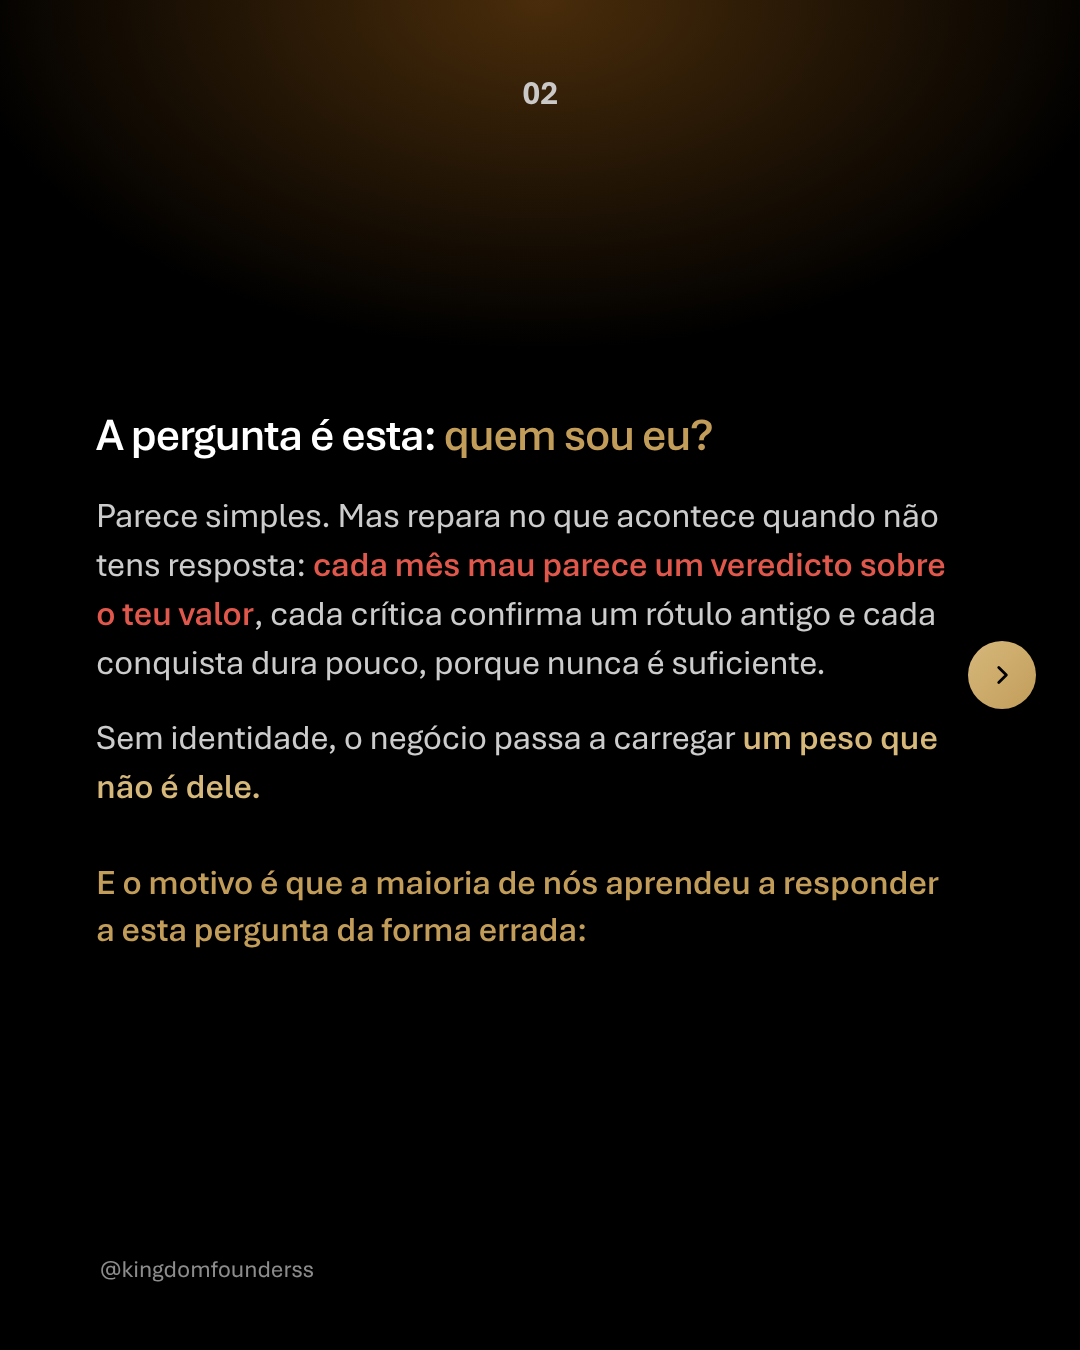
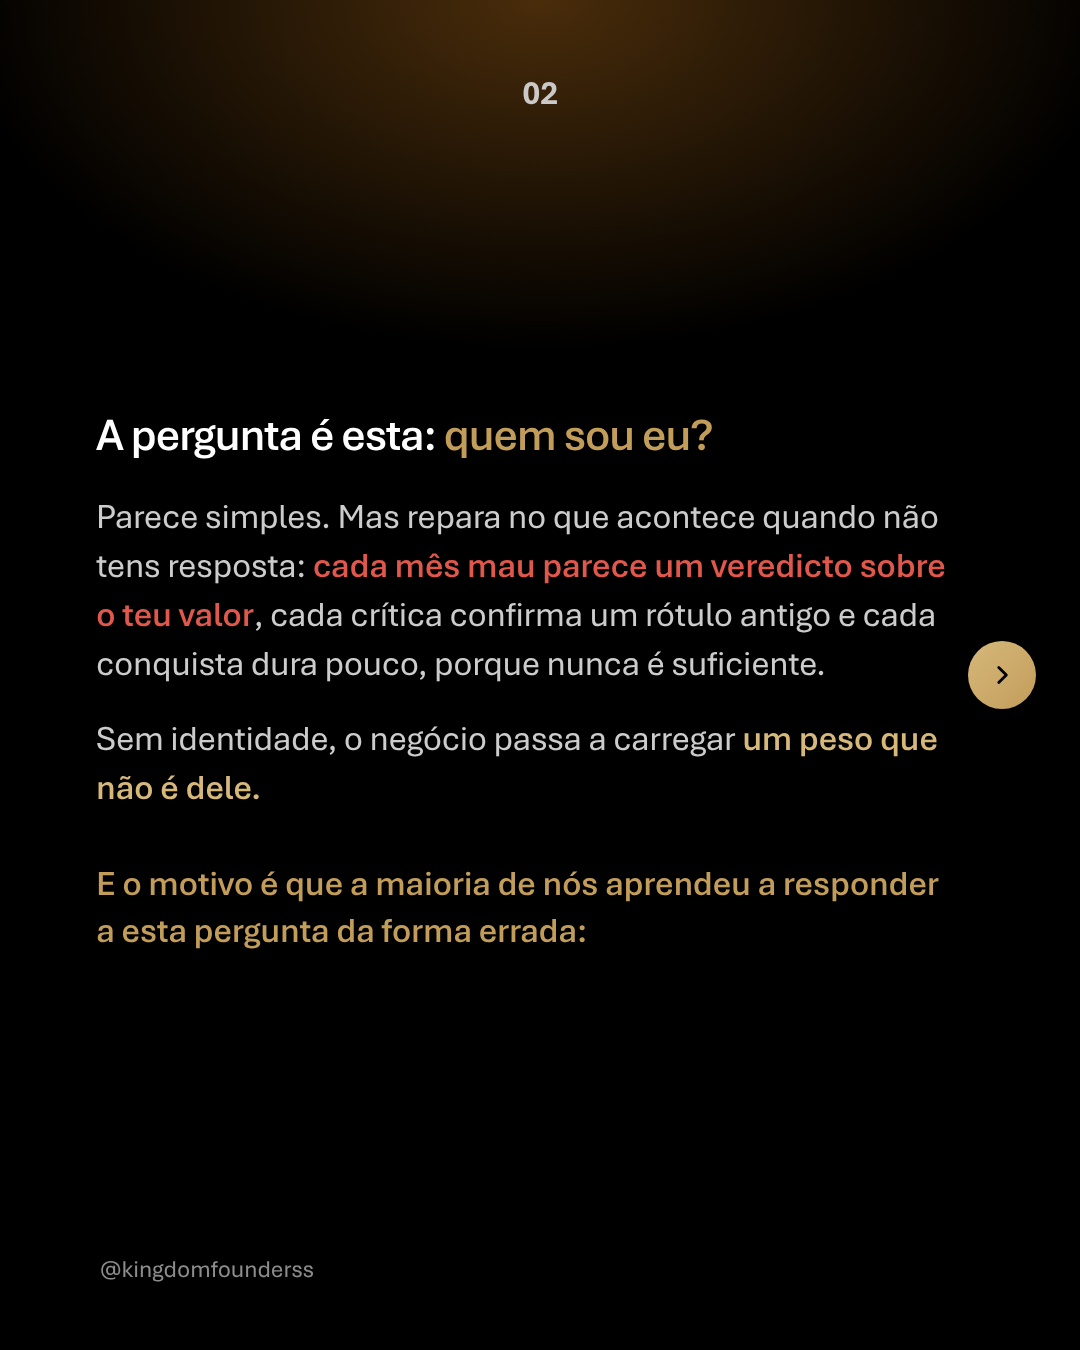
Founders semana 1: versículo sem barra lateral, entrelinha do lead e exceções da marca no detector
Claude-Session: https://claude.ai/code/session_01RgmbLLVHoJT5B4GNygU6zs

diff --git a/content/founders/semana-01/index.html b/content/founders/semana-01/index.html
@@ -22,7 +22,7 @@ body{ background:#2a2a2a; display:flex; flex-wrap:wrap; gap:40px; padding:40px; 
 .p{ font-size:35px; line-height:1.4; letter-spacing:-0.01em; color:rgba(255,255,255,.8); margin-top:26px; }
 .p b{ font-weight:600; color:var(--gold-light); }
 .p .red{ color:var(--red); font-weight:600; }
-.lead{ font-size:46px; line-height:1.25; font-weight:600; letter-spacing:-0.03em; color:var(--white); margin-top:0; }
+.lead{ font-size:46px; line-height:1.3; font-weight:600; letter-spacing:-0.03em; color:var(--white); margin-top:0; }
 .lead b{ color:var(--gold); font-weight:600; }
 .bridge{ margin-top:48px; font-size:35px; line-height:1.35; font-weight:600; letter-spacing:-0.01em; color:var(--gold); }
 .ttl + .p{ margin-top:40px; }
@@ -30,7 +30,8 @@ body{ background:#2a2a2a; display:flex; flex-wrap:wrap; gap:40px; padding:40px; 
 .quotes{ margin-top:40px; display:flex; flex-direction:column; gap:14px; }
 .quotes span{ font-weight:300; font-size:42px; letter-spacing:-0.03em; color:var(--white); }
 .quotes span::before{ content:"“"; color:var(--gold); } .quotes span::after{ content:"”"; color:var(--gold); }
-.verse{ margin-top:32px; padding-left:28px; border-left:3px solid var(--gold); font-size:35px; line-height:1.4; color:var(--white); }
+.verse{ margin-top:36px; font-size:35px; line-height:1.4; color:var(--white); }
+.verse::before{ content:""; display:block; width:56px; height:2px; background:var(--gold); margin-bottom:22px; }
 .verse .ref{ display:block; margin-top:12px; font-size:21px; letter-spacing:.16em; text-transform:uppercase; color:var(--mist); }
 
 /* Placeholder de foto: substituir pela foto real quando o utilizador a enviar */
